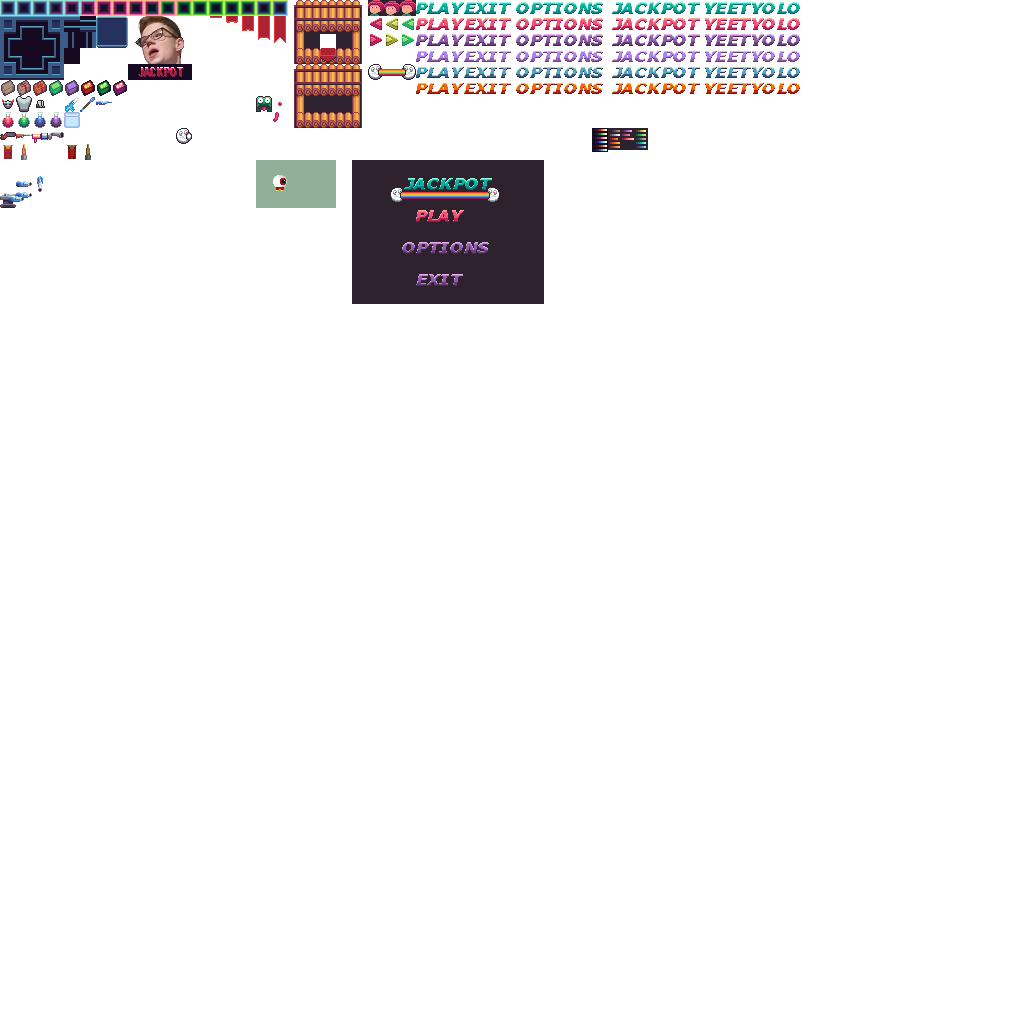
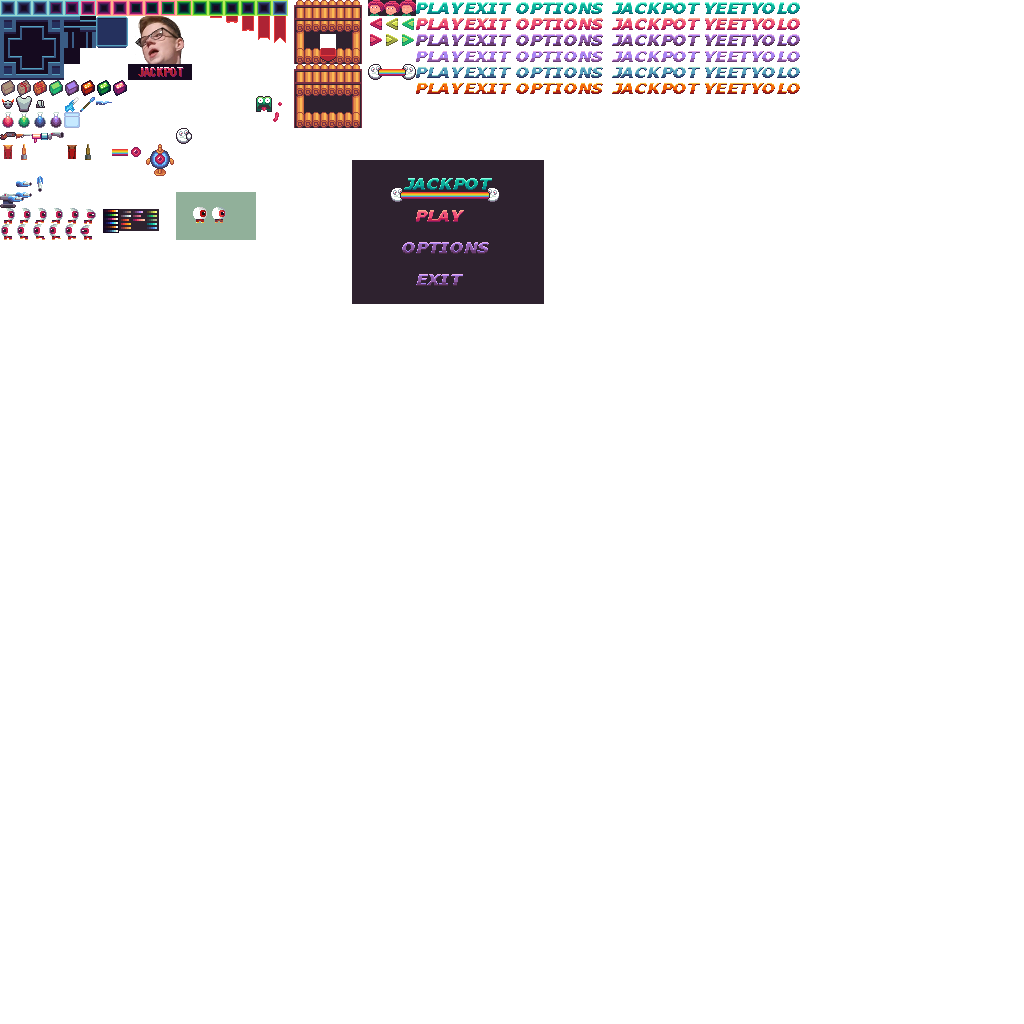
Menu Update

Changed region(s): [[0.0, 0.125, 0.3438, 0.25], [0.5625, 0.125, 0.6562, 0.1562]]

diff --git a/src/main_pack/UI_Element.java b/src/main_pack/UI_Element.java
@@ -5,27 +5,25 @@ import graphics.Texture;
 
 import java.awt.*;
 
-public class UI_Element{
+public class UI_Element {
     private Rectangle box;
-    private int shade;
-    private String content;
-    private int cellSize = Game.UNITDIMENSION;
+    public int cellSize = 128;
     private boolean selected = false;
+    public int imgX, imgY, imgWX, imgWY;
+    private String content;
+    private int shade = 0;
 
 
-    public UI_Element( int x, int y, String Content, int shade) {
-        box = new Rectangle(x * cellSize, y*cellSize, (Content.length()+2)*cellSize, cellSize);
-        this.shade = shade;
-        this.content = Content;
-
+    public UI_Element(String content, int x, int y, int imgX, int imgY, int imgWX, int imgWY) {
+        box = new Rectangle(x, y, imgWX * cellSize, imgWY * cellSize);
+        this.imgX = imgX;
+        this.imgY = imgY;
+        this.imgWX = imgWX;
+        this.imgWY = imgWY;
+        this.content = content;
     }
 
-    public void render(Graphics g) {
-        g.drawImage(Texture.goldenUIElements[59][shade], box.x, box.y, null);
-        drawString(g, 2*16+box.x, 0+box.y, content,cellSize, shade);
-    }
-
-    public static void drawString(Graphics g, int x, int y, String string,int size, int shade) {
+    public static void drawString(Graphics g, int x, int y, String string, int size, int shade) {
         int index = 0;
         string.toUpperCase();
         for (int i = 0; i < string.length(); i++) {
@@ -34,21 +32,38 @@ public class UI_Element{
             int temp_integer = 32; //for upper case
             if (temp <= 90 & temp >= 32) {
                 index = temp - temp_integer;
-                g.drawImage(Texture.goldenUIElements[index][shade], x + i*size, y, null);
+                g.drawImage(Texture.goldenUIElements[index][shade], x + i * size, y, null);
             } else {
                 System.out.println("No supported char");
             }
         }
     }
 
-    public void onClick() {
-        switch (content) {
-            case "CONTINUE":setToGameMode();break;
-            case "OPTIONS":break;
-            case "EXIT":System.exit(0);break;
+    public void render(Graphics g) {
+        for (int yy = 0; yy <imgWY; yy++) {
+            for (int xx = 0; xx <imgWX; xx++) {
+                g.drawImage(Texture.Inventory[imgX+xx][imgY+yy+shade],box.x+xx*cellSize, box.y+yy*cellSize,cellSize,cellSize, null);
+            }
         }
 
     }
+
+    public void onClick() {
+        switch (content) {
+            case "CONTINUE":
+                setToGameMode();
+                break;
+            case "OPTIONS":
+                break;
+            case "EXIT":
+                System.exit(0);
+                break;
+            case "JUSTTEXT":
+                break;
+        }
+
+    }
+
     private void setToGameMode() {
         State.setState(Game.gameState);
     }
@@ -59,10 +74,13 @@ public class UI_Element{
 
     public void setSelected(boolean selected) {
         this.selected = selected;
-        if(selected) {
+        if (selected) {
+            shade = 1;
+        } else {
             shade = 0;
-        }else {
-            shade = 2;
+        }
+        if(content.equals("JUSTTEXT")) {
+            shade = 0;
         }
     }
 

diff --git a/src/main_pack/Menu.java b/src/main_pack/Menu.java
@@ -1,5 +1,7 @@
 package main_pack;
 
+import graphics.Texture;
+
 import java.awt.*;
 
 public class Menu {
@@ -12,26 +14,27 @@ public class Menu {
     private double transX = Launcher.WIDTH / 2 - (10 * Game.UNITDIMENSION / 2 * scale);
     private double transY = Launcher.HEIGHT / 2 - (6 * Game.UNITDIMENSION / 2 * scale);
 
-    private UI_Element[] ui_elements = new UI_Element[3];
+    private UI_Element[] ui_elements = new UI_Element[4];
 
 
     public Menu(Game game) {
         this.keyboardInput = game.getKeyboardInput();
         this.mouseInput = game.getMouseInput();
-        ui_elements[0] = new UI_Element(0, 0, "CONTINUE", 0);
-        ui_elements[1] = new UI_Element(0, 2, "OPTIONS", 2);
-        ui_elements[2] = new UI_Element(0, 4, "EXIT", 2);
+        ui_elements[0] = new UI_Element("CONTINUE", (int) (Launcher.WIDTH/2-1.5d*128), 128*3, 26,0,3,1);
+        ui_elements[1] = new UI_Element("OPTIONS", Launcher.WIDTH/2-3*128, (int) (128*4.5d), 32,0,6,1);
+        ui_elements[2] = new UI_Element("EXIT", (int) (Launcher.WIDTH/2-1.5d*128), (int) (128*6), 29,0,3,1);
+        ui_elements[3] = new UI_Element("JUSTTEXT", Launcher.WIDTH/2-3*128, 128, 38,0,6,1);
     }
 
     public void renderMenu(Graphics g) {
-        Graphics2D g2d = (Graphics2D) g;
-        g2d.translate(transX, transY);
-        g2d.scale(scale, scale);
         for (int i = 0; i < ui_elements.length; i++) {
             ui_elements[i].render(g);
         }
-        g2d.scale(1 / scale, 1 / scale);
-        g2d.translate(-transX, -transY);
+        for (int i = 0; i< 6;i++) {
+            g.drawImage(Texture.Inventory[24][4],Launcher.WIDTH/2-3*128+i*128,128*2-40,128,128,null);
+        }
+        g.drawImage(Texture.Inventory[23][4],Launcher.WIDTH/2-4*128+48,128*2-40,128,128,null);
+        g.drawImage(Texture.Inventory[25][4],Launcher.WIDTH/2+2*128+32,128*2-40,128,128,null);
     }
 
     public void moveMenuIndexUp() {
@@ -59,7 +62,7 @@ public class Menu {
     }
 
     public void onMouseClick(int mx, int my) {
-        Point point = new Point((int) ((mx - transX) / scale), (int) ((my - transY) / scale));
+        Point point = new Point(mx,my);
         for (int i = 0; i < ui_elements.length; i++) {
             if(ui_elements[i].getBox().contains(point)) {
                 ui_elements[i].onClick();
@@ -68,7 +71,7 @@ public class Menu {
     }
 
     public void onMouseHover(int mx, int my) {
-        Point point = new Point((int) ((mx - transX) / scale), (int) ((my - transY) / scale));
+        Point point = new Point(mx,my);
         for (int i = 0; i < ui_elements.length; i++) {
             if(ui_elements[i].getBox().contains(point)) {
                 ui_elements[i].setSelected(true);

diff --git a/src/States/MenuState.java b/src/States/MenuState.java
@@ -26,7 +26,7 @@ public class MenuState extends State{
 
     @Override
     public void render(Graphics g) {
-        g.setColor(new Color(21, 10, 31));
+        g.setColor(new Color(46, 34, 47));
         g.fillRect(0,0, Launcher.WIDTH,Launcher.HEIGHT);
         menu.renderMenu(g);
     }
